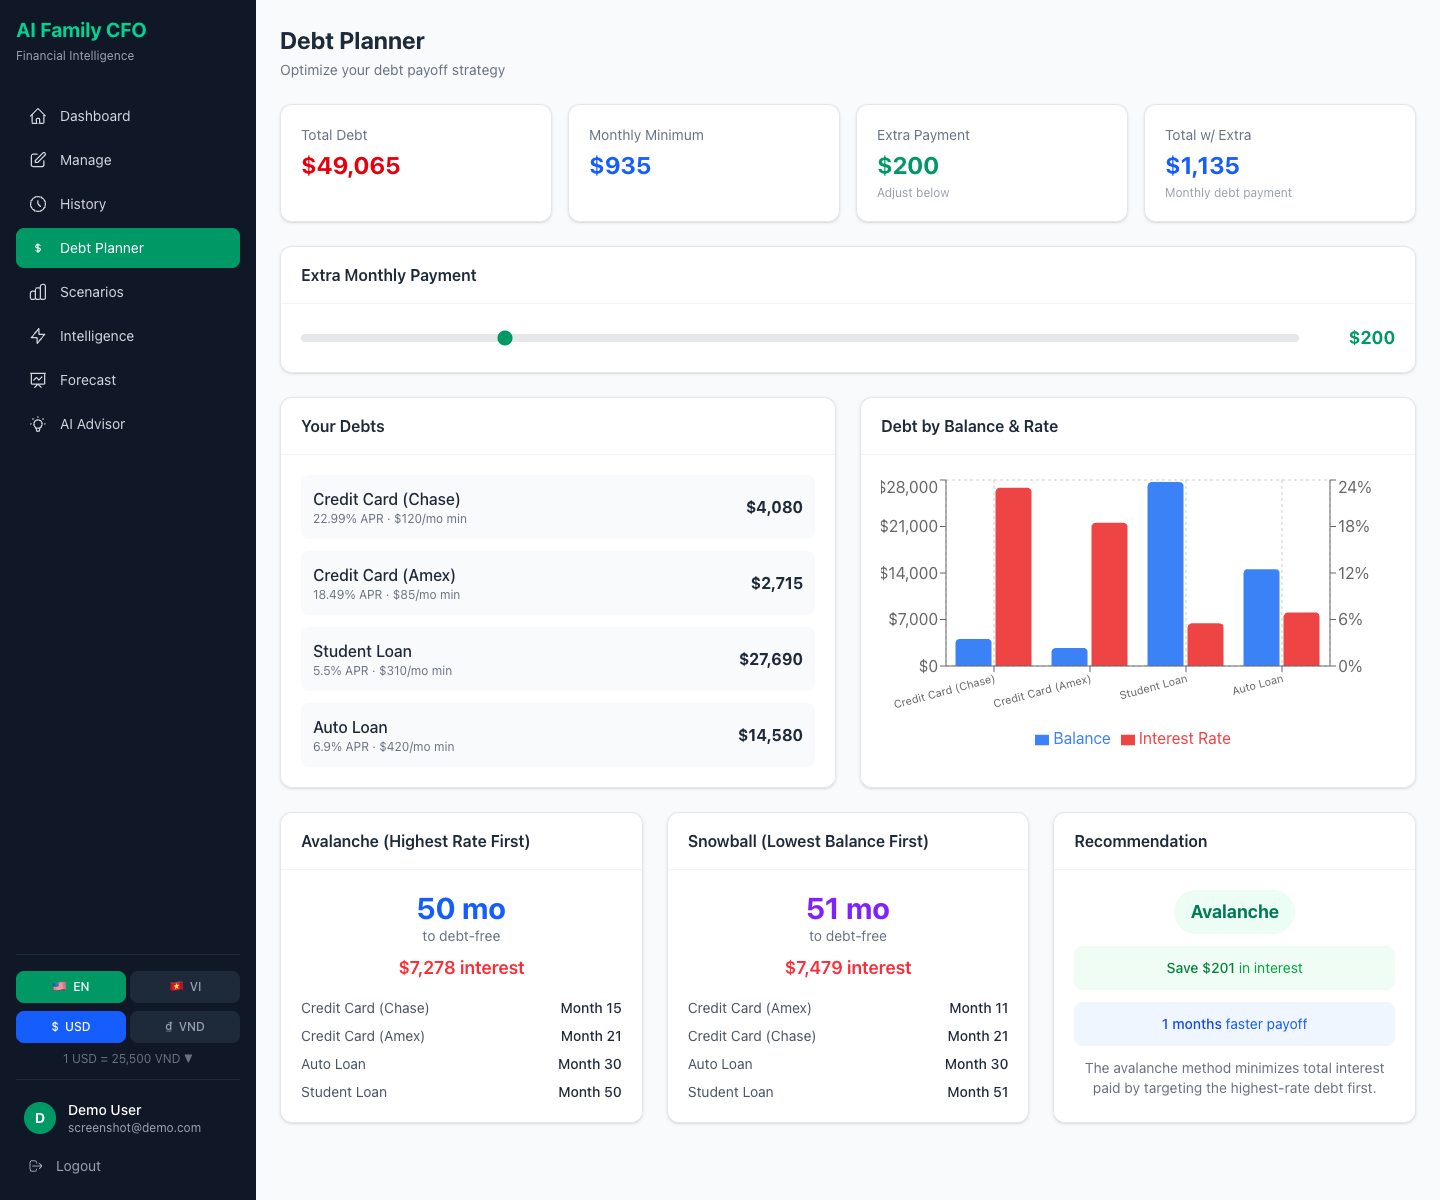
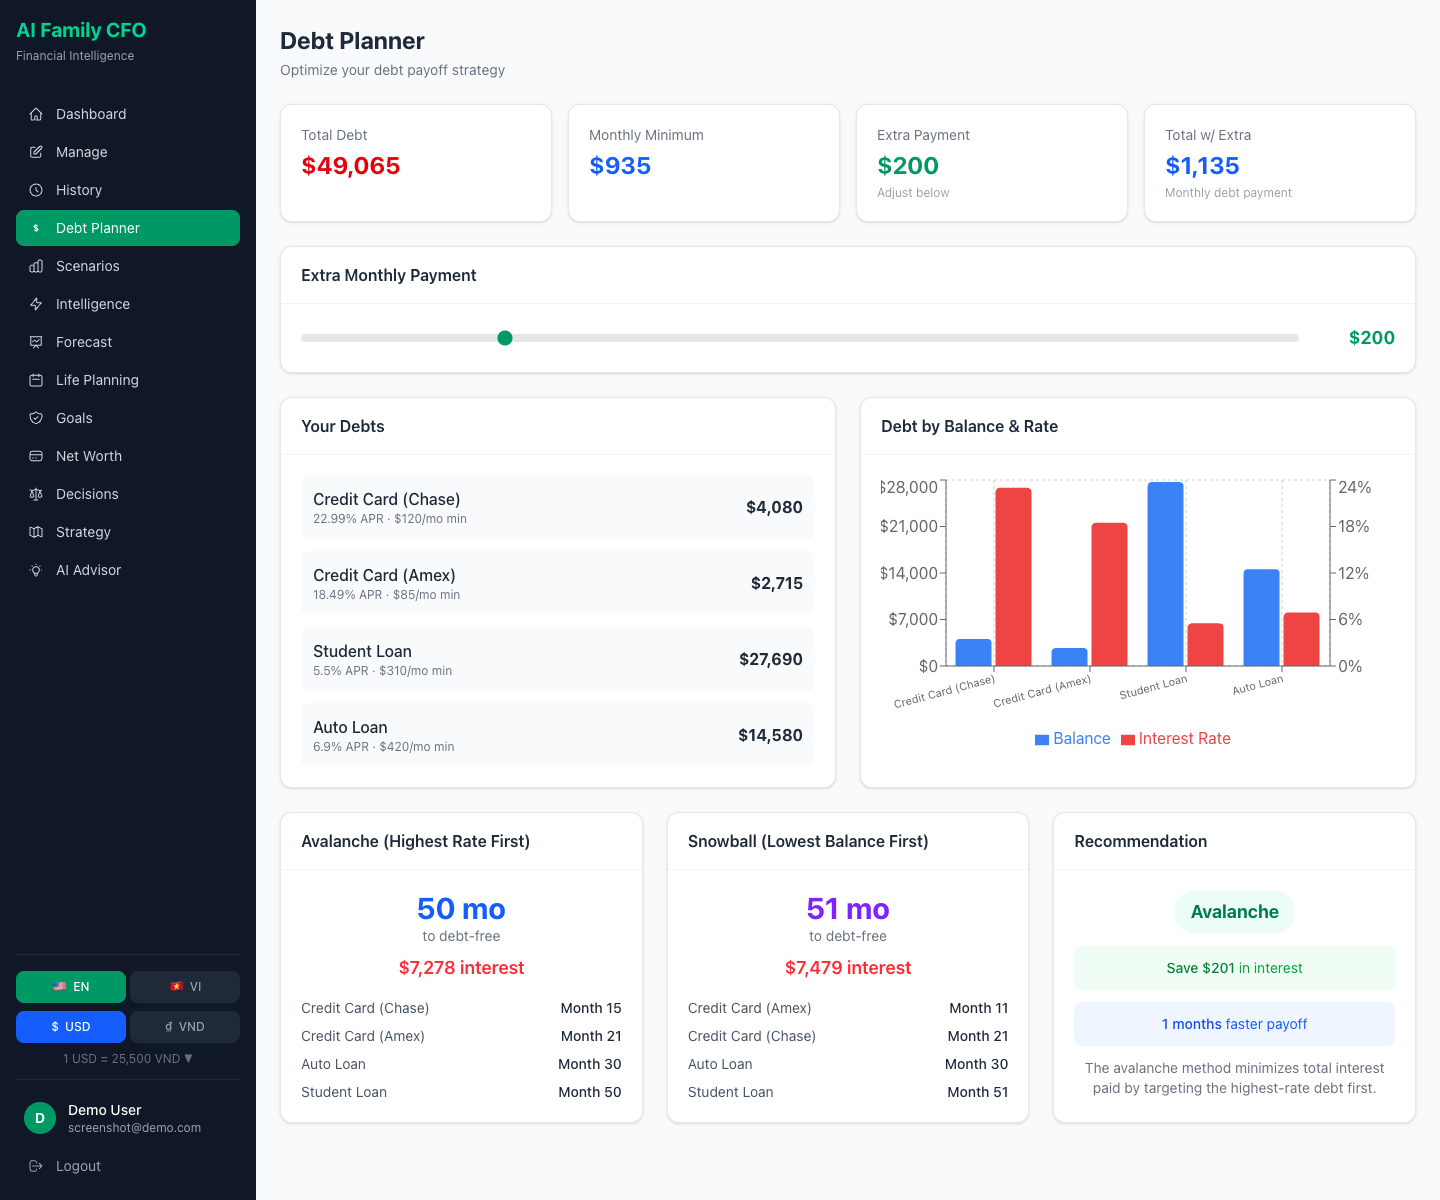
upgrade v3 document

Changed region(s): [[0.0, 0.0925, 0.1875, 0.37], [0.0312, 0.4008, 0.0625, 0.4317]]

diff --git a/README.md b/README.md
@@ -1,32 +1,37 @@
 # AI Family CFO
 
-AI-powered household financial planning and management system. Track income, expenses, and debts. Get intelligent recommendations, run Monte Carlo simulations, and optimize your financial strategy.
+AI-powered household financial planning platform with life event simulation, goal optimization, decision intelligence, and Monte Carlo forecasting.
 
 ![Dashboard](docs/screenshots/03-dashboard.png)
 
 ## Features
 
 ### Core Financial Management
-- **Dashboard** — Real-time financial overview with health score, expense breakdown, income waterfall, and 12-month savings projection
-- **Manage Finances** — Full CRUD for income sources, expenses, and debts with currency-aware inputs
-- **Monthly History** — Close months to create locked snapshots. Fixed items carry over, variable items clear, debt balances auto-reduce
+- **Dashboard** — Financial overview with health score, expense breakdown, income waterfall, stress index, 12-month projection
+- **Manage Finances** — Full CRUD for income, expenses, and debts with currency-aware inputs
+- **Monthly History** — Close months to create locked snapshots with automatic rollover
 - **Debt Planner** — Avalanche vs Snowball strategy comparison with payoff timelines
 - **Scenario Simulator** — What-if analysis: job loss, raise, new baby, emergency, expense cuts
 
 ### V2 Intelligence Layer
-- **Risk Engine** — Detects 7 risk flags (high debt ratio, low emergency fund, negative cashflow, etc.)
-- **Resilience Engine** — Calculates months of survival without income
-- **Financial Score** — Weighted composite score: debt ratio + savings rate + resilience + goal progress
-- **Monte Carlo Simulation** — 1,000 probabilistic scenarios for savings and debt-free projections
-- **Allocation Optimizer** — Optimal surplus distribution between debt, savings, and emergency fund
-- **Behavior Engine** — Detects overspending, lifestyle inflation, and category growth patterns
+- **Risk Engine** — 8 risk flags including stress index and single-income dependency
+- **Financial Score** — Weighted composite (debt 30%, savings 25%, resilience 25%, goals 20%)
+- **Monte Carlo Simulation** — 1,000 probabilistic scenarios with savings distribution
+- **Allocation Optimizer** — Optimal surplus distribution with recommended actions
+- **Behavior Engine** — Overspending, lifestyle inflation, category growth detection
 - **Forecast Engine** — Statistical projections from monthly history
-- **AI Advisor V2** — Comprehensive recommendations integrating all intelligence engines
 
-### Platform Features
-- **Authentication** — JWT-based auth with register, login, password change
-- **User Profiles** — Family member management, personal settings
-- **Multi-language** — English and Vietnamese (256 translated keys)
+### V3 Life Planning
+- **Life Event Planner** — Simulate buying a house, having a child, career change, retirement
+- **Goal Optimizer** — Set financial goals with deadlines; get optimal savings plans
+- **Net Worth Tracker** — Asset portfolio with 10-year compound growth projection
+- **Decision Engine** — Compare financial decisions side-by-side with risk/savings/cashflow analysis
+- **Strategy Engine** — AI recommends Debt First / Balanced Growth / Aggressive Saving / Investment Focus
+- **AI Memory** — Store and retrieve historical advice for personalized recommendations
+
+### Platform
+- **Authentication** — JWT with register, login, password change, family members
+- **Multi-language** — English and Vietnamese (338 translated keys)
 - **Multi-currency** — USD and VND with configurable exchange rate
 - **Docker** — Full containerized deployment (PostgreSQL + FastAPI + Next.js)
 
@@ -37,7 +42,7 @@ AI-powered household financial planning and management system. Track income, exp
 |-------|----------|
 | ![Login](docs/screenshots/01-login.png) | ![Register](docs/screenshots/02-register.png) |
 
-### Financial Dashboard
+### Dashboard
 ![Dashboard](docs/screenshots/03-dashboard.png)
 
 ### Manage Finances
@@ -55,24 +60,39 @@ AI-powered household financial planning and management system. Track income, exp
 ### Monte Carlo Forecast (V2)
 ![Forecast](docs/screenshots/08-forecast.png)
 
-### AI Advisor V2
-![Advisor](docs/screenshots/09-advisor.png)
+### Life Event Planner (V3)
+![Life Planning](docs/screenshots/09-life-planning.png)
+
+### Financial Goals (V3)
+![Goals](docs/screenshots/10-goals.png)
+
+### Net Worth Tracker (V3)
+![Net Worth](docs/screenshots/11-net-worth.png)
+
+### Decision Engine (V3)
+![Decisions](docs/screenshots/12-decisions.png)
+
+### Financial Strategy (V3)
+![Strategy](docs/screenshots/13-strategy.png)
+
+### AI Advisor
+![Advisor](docs/screenshots/14-advisor.png)
 
 ### Monthly History
-![History](docs/screenshots/10-history.png)
+![History](docs/screenshots/15-history.png)
 
 ### User Profile
-![Profile](docs/screenshots/11-profile.png)
+![Profile](docs/screenshots/16-profile.png)
 
 ### Vietnamese + VND
-![Vietnamese](docs/screenshots/12-dashboard-vi.png)
+![Vietnamese](docs/screenshots/17-dashboard-vi.png)
 
 ## Tech Stack
 
 | Layer | Technology |
 |-------|-----------|
 | **Frontend** | Next.js 16, TypeScript, Tailwind CSS, Recharts |
-| **Backend** | FastAPI (Python), Pydantic V2 |
+| **Backend** | FastAPI (Python 3.11), Pydantic V2 |
 | **Database** | PostgreSQL 16 (JSONB) |
 | **Auth** | JWT + bcrypt |
 | **Container** | Docker Compose |
@@ -84,15 +104,9 @@ AI-powered household financial planning and management system. Track income, exp
 ```bash
 git clone <repo-url>
 cd ai-family-cfo-fintech
-
-# Start all services
 docker compose up -d
-
-# Open in browser
-open http://localhost:3000
 ```
 
-Services:
 - **Frontend**: http://localhost:3000
 - **Backend API**: http://localhost:8001
 - **API Docs**: http://localhost:8001/docs
@@ -114,29 +128,39 @@ npm run dev
 
 ## API Endpoints
 
-### V1 — Core Financial (POST, accept HouseholdProfile body)
+### V1 — Core Financial
 | Endpoint | Description |
 |----------|-------------|
-| `POST /api/v1/simulate` | Cashflow analysis |
+| `POST /api/v1/simulate` | Cashflow analysis with stress index |
 | `POST /api/v1/simulate/project` | 12-month projections |
 | `POST /api/v1/debt/optimize` | Debt payoff schedule |
 | `POST /api/v1/debt/compare` | Avalanche vs Snowball |
 | `POST /api/v1/scenario/compare` | What-if scenarios |
 | `POST /api/v1/scenario/stress-test` | Stress testing |
-| `POST /api/v1/advisor/recommendations` | V1 recommendations |
 
-### V2 — Intelligence Layer
+### V2 — Intelligence
 | Endpoint | Description |
 |----------|-------------|
-| `POST /api/v2/financial-risk` | Risk assessment with flags |
+| `POST /api/v2/financial-risk` | Risk assessment with 8 flags |
 | `POST /api/v2/financial-resilience` | Survival months analysis |
-| `POST /api/v2/financial-score` | Weighted health score |
+| `POST /api/v2/financial-score` | Weighted health score (30/25/25/20) |
 | `POST /api/v2/monte-carlo` | Monte Carlo simulation |
-| `POST /api/v2/optimize-allocation` | Surplus allocation |
+| `POST /api/v2/optimize-allocation` | Surplus optimization |
 | `POST /api/v2/timelines` | 5-year financial timelines |
-| `POST /api/v2/recommendations` | AI recommendations (full) |
+| `POST /api/v2/recommendations` | AI recommendations |
 | `GET /api/v2/financial-forecast` | Forecast from history (auth) |
 | `GET /api/v2/financial-behavior` | Behavior analysis (auth) |
+
+### V3 — Life Planning
+| Endpoint | Description |
+|----------|-------------|
+| `POST /api/v3/life-event` | Simulate life event impact |
+| `POST /api/v3/goals/optimize` | Optimize savings across goals |
+| `POST /api/v3/net-worth` | Net worth + 10yr projection |
+| `POST /api/v3/decision` | Compare financial decisions |
+| `POST /api/v3/strategy` | AI strategy recommendation |
+| `POST /api/v3/memory` | Store AI memory (auth) |
+| `GET /api/v3/memory` | Retrieve memories (auth) |
 
 ### Auth & User
 | Endpoint | Description |
@@ -152,23 +176,31 @@ npm run dev
 ## Architecture
 
 ```
-frontend/           Next.js 16 + TypeScript + Tailwind
-  src/
-    app/            Pages (12 routes)
-    components/     Shared UI components
-    lib/            API clients, contexts, i18n (EN/VI)
+frontend/                 Next.js 16 + TypeScript + Tailwind
+  src/app/                17 pages (routes)
+  src/components/         Shared UI (Card, MetricCard, MoneyInput, etc.)
+  src/lib/                API clients (v1, v2, v3), contexts, i18n (EN/VI)
 
-backend/            FastAPI + Python 3.11
-  simulation/       V1 core engines (cashflow, debt, scenario, timeline)
-  intelligence/     V2 risk, forecast, behavior, resilience, score
-  probabilistic/    V2 Monte Carlo simulation
-  optimization/     V2 allocation optimizer
-  advisor/          V1 rules engine + V2 recommendation engine
-  auth/             JWT auth + user routes
-  db/               PostgreSQL connection + schema
-  models/           Pydantic models
+backend/                  FastAPI + Python 3.11
+  simulation/             V1: cashflow, debt, scenario, timeline engines
+  intelligence/           V2: risk, forecast, behavior, resilience, score
+  probabilistic/          V2: Monte Carlo simulation
+  optimization/           V2: allocation optimizer
+  advisor/                V1 rules + V2 recommendation engine
+  life_planning/          V3: life event engine
+  goals/                  V3: goal optimizer
+  assets/                 V3: net worth engine
+  decision/               V3: decision engine
+  strategy/               V3: strategy engine
+  memory/                 V3: AI memory
+  auth/                   JWT auth + user routes
+  db/                     PostgreSQL schema
+  models/                 Pydantic models (financial, user, v3)
+  routes.py               V1 API
+  routes_v2.py            V2 API
+  routes_v3.py            V3 API
 
-docker-compose.yml  3 services: db + backend + frontend
+docker-compose.yml        3 services: db + backend + frontend
 ```
 
 ## Environment Variables
